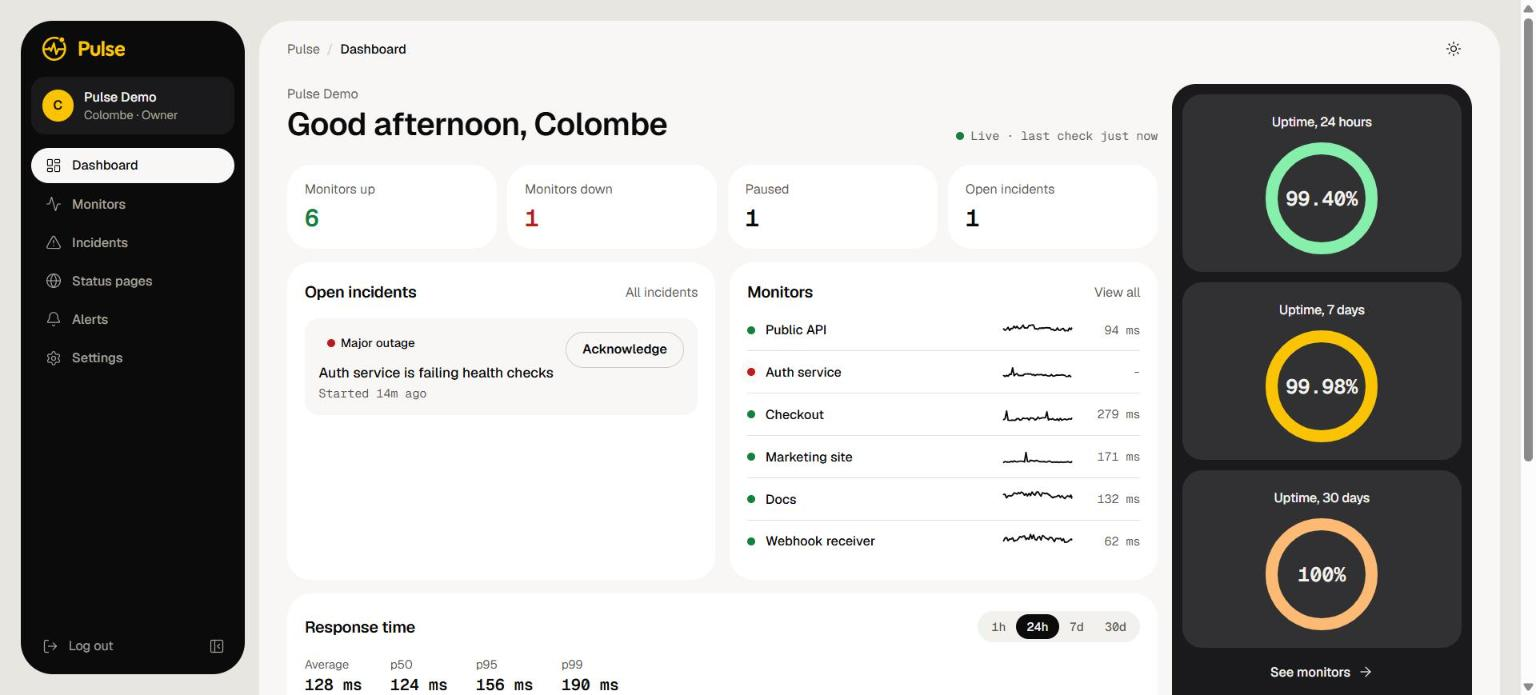
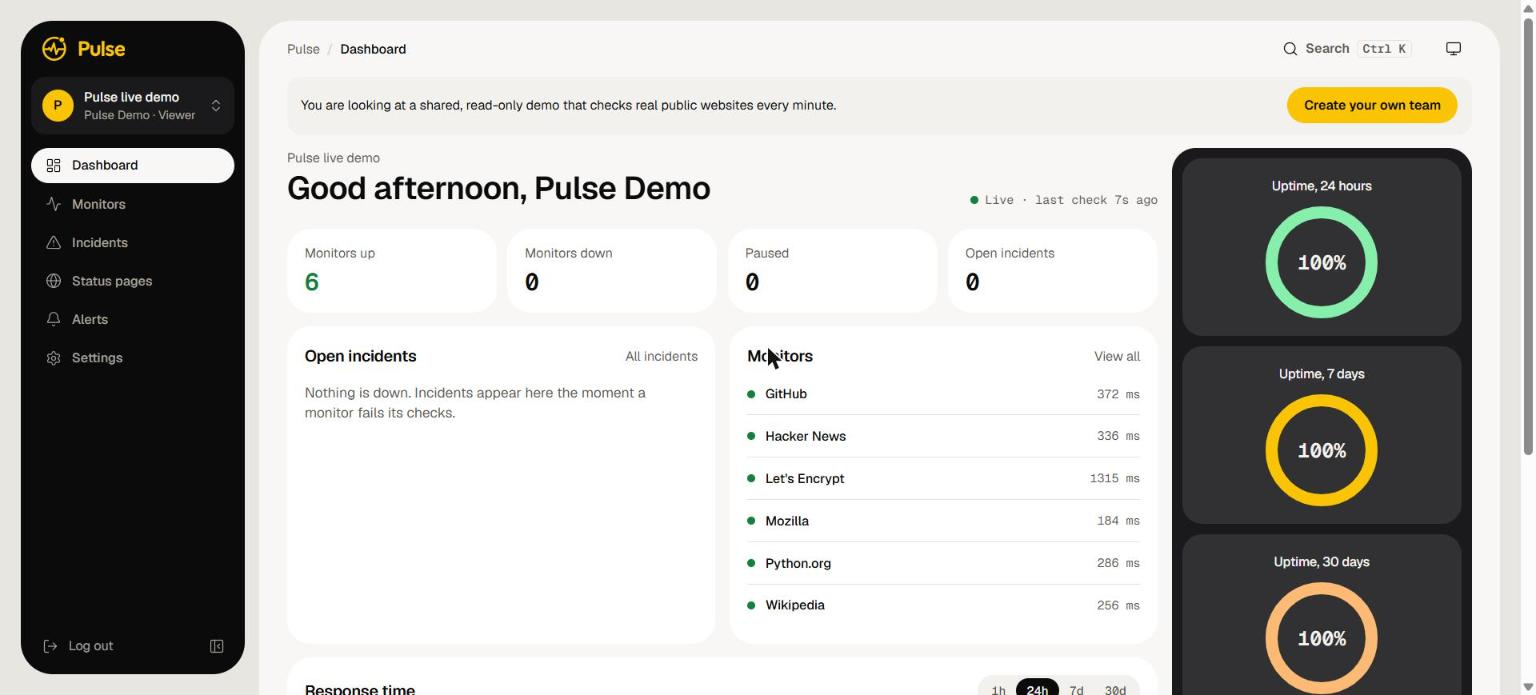
docs: add launch screenshots, architecture notes and the v1.0.0 changelog

diff --git a/README.md b/README.md
@@ -4,74 +4,33 @@
 
 # Pulse
 
-Pulse checks websites and APIs on a schedule, detects outages, alerts the team, and publishes a live public
-status page. Monitoring and a status page in one place, built on .NET, React and PostgreSQL.
+[![CI](https://github.com/colombefioren/PULSE/actions/workflows/ci.yml/badge.svg)](https://github.com/colombefioren/PULSE/actions/workflows/ci.yml)
 
-> Status: **v0.5.0, status pages.** Accounts, teams, monitoring, incidents, alerts and public status pages are
-> real: when a monitor goes down Pulse opens an incident, tells your team by email, Slack, Discord or a signed
-> webhook, and shows it on a page your customers can read and subscribe to. "Try the demo" shows the whole
-> product on seeded data.
+Pulse checks websites and APIs on a schedule, notices when one stops answering, tells your team by email, Slack,
+Discord or webhook, and publishes a live public status page your customers can read and subscribe to. Monitoring
+and a status page in one place, on .NET 10, React and PostgreSQL, built so the interesting parts (partitioned
+storage, a database-backed job queue, an outbox, live updates without a message broker) are small enough to read.
 
-## Accounts
+**Status: v1.0.0.** Try it with one click on the landing page: "Try the demo" opens a read-only team that watches
+real public websites, or a built-in sample workspace when the server has no demo.
 
-Create an account at `/signup`. In the local stack the confirmation email arrives in Mailpit
-(http://localhost:8025). Every account belongs to teams with one of three roles:
+![The dashboard](docs/screenshots/dashboard.jpg)
 
-| Role | Can |
+## An outage, live
+
+A monitor fails, an incident opens by itself, and the public status page changes while a visitor is looking at it.
+
+![An outage appearing on the dashboard and the status page](docs/screenshots/outage-live.gif)
+
+| Monitor | Public status page |
 | --- | --- |
-| Owner | Everything, including delete the team and grant or revoke Owner |
-| Admin | Manage members and invitations (not Owners) |
-| Viewer | Look, nothing else |
+| ![A monitor with response times and recent checks](docs/screenshots/monitor.jpg) | ![A public status page](docs/screenshots/status-page.jpg) |
 
-People join a team through an emailed invitation that works for 7 days. A person who is not a member of a team
-gets a 404 for anything inside it, so team ids cannot be probed.
+| Command palette (Ctrl+K) | Dark theme at 360 px |
+| --- | --- |
+| ![The command palette searching monitors](docs/screenshots/command-palette.jpg) | ![The dashboard on a phone in dark mode](docs/screenshots/mobile-dark.jpg) |
 
-## Monitors
-
-Owners and Admins add monitors from **Monitors > Add monitor** (or press `C`). A monitor checks one `http` or
-`https` address every 30 seconds to 30 minutes and can require specific status codes, a keyword in the response
-and request headers. It goes Down after a few failures in a row and Up again after a few passes, so one dropped
-packet does not page anyone. Each monitor shows uptime for 24 hours, 7 and 30 days, average and p95/p99 response
-times, a response chart and the recent checks with the reason for every failure. Viewers can look but not change.
-
-The checks run in `Pulse.Worker`, so the stack needs the worker as well as the API. Addresses that point at
-private or internal networks (localhost, 10.x, 192.168.x, cloud metadata and so on) are refused when saving and
-again when connecting, so Pulse cannot be used to probe your network. Monitoring a service on your own machine
-therefore needs a public address, for example through a tunnel.
-
-## Incidents and alerts
-
-An incident opens by itself when a monitor goes Down and resolves when it comes back Up. Its timeline records
-what the monitor saw, who acknowledged it and any notes your team adds. For things monitors cannot see, Owners
-and Admins can **declare an incident** by hand and post status updates (Investigating, Identified, Monitoring,
-Resolved) on it. Open incidents show on the dashboard next to live counts and uptime for 24 hours, 7 and 30 days.
-
-**Alert channels** (Alerts page) say where a message goes. Add email addresses, a Slack or Discord webhook, or a
-generic webhook, then choose which channels each monitor uses in its form. A generic webhook receives a JSON
-`POST` signed with a secret that is shown once: compare `X-Pulse-Signature` with `sha256=` plus the hex HMAC-SHA256
-of the raw body. **Send test alert** checks a channel end to end, and each channel keeps its delivery history.
-Failed deliveries are retried after 1, 5, 15 and 60 minutes before they are marked failed.
-
-## Status pages
-
-Owners and Admins build up to five pages under **Status pages**. A page has a title, an address
-(`/status/your-address`), an accent colour, a footer, an optional logo and a list of **components**: lines such as
-"Website" or "API", each fed by one or more monitors and optionally grouped. A component is down when all its
-monitors are down, degraded when only some are, and in maintenance when every monitor behind it is paused.
-
-Visitors need no account. The public page shows the current status, 90 days of uptime per component, active
-incidents with their updates and the last 30 days of past incidents, and it refreshes itself over a socket when
-something changes. It is cached for 30 seconds and its endpoints are rate limited per address.
-
-What visitors see is deliberately plain. An incident opened by a monitor reads "Issue affecting Checkout": the
-monitor's name, address and error stay private, and so do internal notes and acknowledgements. Incidents you
-declare by hand can name the components they affect and go out exactly as you wrote them.
-
-Visitors can **subscribe by email**. They confirm from a link in the first email (nothing is sent before that),
-and every later email carries a one-click unsubscribe link and the `List-Unsubscribe` headers mail apps use.
-Subscribers hear when an incident on the page opens, gets a public update or resolves.
-
-## Run it locally
+## Run it in three commands
 
 ```bash
 git clone https://github.com/colombefioren/PULSE.git
@@ -79,19 +38,95 @@ cd PULSE
 docker compose up --build
 ```
 
+Open http://localhost:8080, create an account (the confirmation email arrives in Mailpit at
+http://localhost:8025), add a URL and watch it go Up within a minute.
+
 | Service | URL |
 | --- | --- |
 | Web | http://localhost:8080 |
 | API | http://localhost:5080 (health: `/health/live`, `/health/ready`) |
 | Mailpit | http://localhost:8025 |
 
-Every setting has a development default. Copy `.env.example` to `.env` to change ports or credentials.
+Every setting has a development default. Copy `.env.example` to `.env` to change ports or credentials, or to turn
+on the shared demo (`DEMO_ENABLED=true`).
 
-### Without Docker
+## What it does
 
-Requirements: .NET 10 SDK, Node 24, PostgreSQL 16 and an SMTP catcher such as Mailpit on port 1025. The
-Development settings expect the `pulse` / `pulse_dev_password` database from `.env.example` on `localhost:5432`
-and apply migrations on startup. Start only the dependencies with `docker compose up postgres mailpit`.
+**Monitors.** Check an `http` or `https` address every 30 seconds to 30 minutes, requiring status codes, a keyword
+in the body and request headers. A monitor goes Down after a few failures in a row and Up again after a few
+passes, so one dropped packet pages nobody. Each shows uptime for 24 hours, 7, 30 and 90 days, average, p95 and
+p99 response times, a chart, and the reason for every failed check.
+
+**Incidents and alerts.** An incident opens when a monitor goes Down and resolves when it recovers, with a
+timeline of what was seen, who acknowledged it and any notes. Declare your own for what monitors cannot see.
+Alert channels are email, Slack, Discord and a generic webhook signed with HMAC-SHA256; failed deliveries are
+retried after 1, 5, 15 and 60 minutes.
+
+**Status pages.** Up to five per team at `/status/your-address`, with components fed by monitors, 90 days of
+uptime bars, active incidents with public updates, and email subscribers (double opt-in, one-click unsubscribe).
+Visitors need no account. What they see is deliberately plain: an incident from a monitor reads "Issue affecting
+Checkout", never the monitor's name, address or error.
+
+**Badges.** Switch on a monitor's badge and paste the Markdown from its page: `/badge/{monitorId}.svg` shows the
+last 30 days as a small image. Off by default, cached, rate limited, and a switched-off monitor looks the same as
+one that does not exist.
+
+**Teams.** Owner, Admin and Viewer roles, invitations that work for 7 days, and a 404 for anything in a team you
+do not belong to, so ids cannot be probed.
+
+**Keyboard.** `Ctrl+K` (`Cmd+K` on a Mac) opens a command palette to jump to any monitor or page, create a monitor,
+switch team or change the theme. `C` adds a monitor; `G` then `M` or `I` opens monitors or incidents.
+
+## Architecture
+
+```mermaid
+flowchart LR
+    Browser["Browser<br/>React SPA"] -->|"HTTPS, cookie"| Web["nginx"]
+    Web -->|"/api, /badge"| API["Pulse.Api<br/>ASP.NET Core"]
+    Web -->|"/hubs WebSocket"| API
+    API --> PG[("PostgreSQL")]
+    Worker["Pulse.Worker<br/>checks, rollups,<br/>outbox, retention"] --> PG
+    Worker -->|"HTTP checks"| Sites["Monitored sites"]
+    Worker -->|"email, Slack,<br/>Discord, webhooks"| Targets["Alert targets"]
+    Worker -.->|"NOTIFY pulse_events"| PG
+    PG -.->|"LISTEN"| API
+    API -.->|"SignalR"| Browser
+```
+
+Two processes share one database. `Pulse.Api` serves the web app's API, the public status pages and the live
+connections. `Pulse.Worker` runs the checks, sends alerts, rolls results up and drops old data. They never call
+each other: anything one needs from the other goes through PostgreSQL. The code follows Clean Architecture
+(`Domain`, `Application`, `Infrastructure`, then the two hosts); see [docs/architecture.md](docs/architecture.md).
+
+## Design decisions
+
+The longer reasoning, with the alternatives that were rejected, is in [docs/decisions.md](docs/decisions.md).
+
+- **Partitioned check results, dropped not deleted.** `check_results` grows forever, so it is partitioned by month.
+  Retention is `DROP TABLE` on a whole month once all of it is older than 30 days, after the worker has summed it
+  into hourly (kept a year) and daily (kept forever) rollups. No `DELETE` ever touches millions of rows, and the
+  space comes back at once.
+- **Scheduling with `FOR UPDATE SKIP LOCKED`.** Each monitor row carries its next due time. A worker claims a batch
+  of due rows in one transaction, moves their due time forward and runs the checks outside it, so any number of
+  workers can share the load without a lock manager, and a crashed one just lets rows come due again.
+- **A transactional outbox for alerts and mail.** When a monitor changes state, the incident and the "send this"
+  message are written in the same transaction. A dispatcher leases messages, sends them with a few retries and marks
+  them done, so an alert is neither lost with a crash nor sent for a change that was rolled back. Delivery is at
+  least once.
+- **SignalR through `LISTEN/NOTIFY`, no broker.** Whoever changes something publishes a `pg_notify`; every API
+  instance listens and pushes to its own connected browsers. The public status page's socket carries nothing but
+  "changed", and the browser then fetches the cached page like any visitor.
+- **Checks cannot be pointed inward.** The address is checked when a monitor is saved and again on every
+  connection, redirects included, against the address actually used, so DNS tricks cannot reach the private
+  network or a cloud metadata service.
+- **Cookie sessions with antiforgery tokens**, not tokens in local storage: the session is `HttpOnly`, and every
+  request that changes something carries a header other sites cannot set.
+
+## Develop
+
+Without Docker you need the .NET 10 SDK, Node 24, PostgreSQL 16 and an SMTP catcher such as Mailpit on port 1025.
+Start only the dependencies with `docker compose up postgres mailpit`; the Development settings apply migrations on
+startup.
 
 ```bash
 dotnet run --project src/Pulse.Api        # http://localhost:5080, OpenAPI UI at /scalar/v1
@@ -99,7 +134,7 @@ dotnet run --project src/Pulse.Worker
 cd web && npm ci && npm run dev           # http://localhost:5173, proxies /api to the API
 ```
 
-## Tests
+### Tests
 
 ```bash
 dotnet test Pulse.slnx                    # unit and integration; integration tests start PostgreSQL with Testcontainers
@@ -113,8 +148,26 @@ drop a scratch database of their own:
 PULSE_TEST_POSTGRES="Host=127.0.0.1;Port=5432;Username=postgres;Password=..." dotnet test Pulse.slnx
 ```
 
+End-to-end tests drive a real browser against the whole stack, including a website whose health they switch to
+cause an outage:
+
+```bash
+docker compose -f docker-compose.yml -f docker-compose.e2e.yml up -d --build
+cd e2e && npm ci && npx playwright install chromium && npx playwright test
+```
+
 Schema changes need a migration: `dotnet ef migrations add <Name> --project src/Pulse.Infrastructure --startup-project src/Pulse.Api`
 (the tool is pinned in `dotnet-tools.json`; run `dotnet tool restore` once).
+
+### Settings worth knowing
+
+| Setting | Default | Meaning |
+| --- | --- | --- |
+| `Demo__Enabled` | `false` | "Try the demo" signs in to a shared read-only team that watches real public sites |
+| `Checks__AllowPrivateTargets` | `false` | Lets checks reach private addresses. Only the end-to-end stack sets it |
+| `StatusPage__CacheSeconds` | `30` | How long a public page is cached; `0` turns the cache off |
+| `Badge__CacheSeconds` | `300` | How long a badge is cached |
+| `App__PublicUrl` | `http://localhost:8080` | Where links in emails point |
 
 ## Stack
 
@@ -122,7 +175,7 @@ Schema changes need a migration: `dotnet ef migrations add <Name> --project src/
 | --- | --- |
 | Backend | .NET 10, ASP.NET Core, Clean Architecture |
 | Data | PostgreSQL 16, EF Core with Npgsql |
-| Background work | `BackgroundService` with `System.Threading.Channels` |
+| Background work | `BackgroundService`, `FOR UPDATE SKIP LOCKED`, a transactional outbox |
 | Real time | SignalR, worker events through `LISTEN/NOTIFY` |
 | Frontend | React, TypeScript (strict), Vite, Tailwind CSS, Radix UI, TanStack Query |
 | Tests | xUnit, FluentAssertions, Testcontainers, Vitest, Testing Library, Playwright |
@@ -137,7 +190,7 @@ Schema changes need a migration: `dotnet ef migrations add <Name> --project src/
 | v0.3.0 | M2 Monitors and the check engine | released |
 | v0.4.0 | M3 Incidents and alerts | released |
 | v0.5.0 | M4 Status pages | released |
-| v1.0.0 | M5 Polish and launch | planned |
+| v1.0.0 | M5 Polish and launch | released |
 
 ## Branches
 
@@ -149,3 +202,4 @@ on `preprod`; larger work goes through a short-lived `feat/*` branch and a pull 
 
 - [Architecture](docs/architecture.md)
 - [Decisions](docs/decisions.md)
+- [Changelog](CHANGELOG.md)

diff --git a/docs/decisions.md b/docs/decisions.md
@@ -369,3 +369,45 @@ page up to 30 components.
 ### Accent colour
 The accent paints a stripe and the subscribe button, never body text. The button text is black or white, whichever
 contrasts better, and the editor says so when neither reaches 4.5:1 for the chosen colour.
+
+## M5: retention, badges, demo and launch
+
+### Drop partitions, never delete rows
+`check_results` is the one table that grows without bound, so it is partitioned by month and retention is
+`DROP TABLE` on a whole partition once its last day is older than 30 days. A `DELETE` of that many rows would
+bloat the table, take locks and need vacuuming; dropping a partition is instant and returns the space. Before a
+month is dropped the worker runs the daily and hourly rollups over it, so nothing the product shows depends on the
+raw rows afterwards. Rollups are idempotent upserts, so running them twice, or after a restart, is harmless. The
+partition names come from `pg_inherits` and must match `check_results_YYYY_MM`, so nothing a user types reaches
+the statement. Hourly rollups (a small table) are kept 365 days with a plain delete; daily rollups are kept forever.
+
+### 90-day uptime reads two sources
+Days before yesterday come from the daily totals; yesterday and today come from the raw checks. The rollup job
+refreshes yesterday and today every ten minutes, but reading them raw means the figure is correct even if the job
+has not run, and a freshly dropped partition can never leave a gap.
+
+### The badge says nothing it was not asked to
+A badge is public, so it is opt-in per monitor and shows one number. "Switched off" and "no such monitor" return the
+same 404 image, so ids cannot be probed. The result is cached for five minutes in memory and by browsers and
+proxies, and shares the public read rate limit. Colours are chosen so white text keeps at least 4.5:1 contrast.
+
+### A real demo that cannot hurt anyone
+"Try the demo" signs in to a shared account on a real team that watches six well-known public websites, so the
+visitor sees live data instead of a script. The account is a Viewer, its password is random and thrown away, and
+the only way in is `POST /api/demo/session`, which is rate limited. It cannot create teams, which would otherwise
+let any visitor spend the demo's storage. If the server has no demo (`Demo__Enabled` is false) the endpoint answers
+404 and the web app falls back to the built-in sample workspace; someone already signed in is never switched to it.
+
+### Why the command palette is hand-built
+It needs a list, a filter and keyboard handling. A library for that would add more weight than the couple of hundred lines it
+saves, and the initial bundle has a 250 KB budget. Matching is "every word appears somewhere", names that start with
+the first word come first, and the whole thing is a Radix dialog so focus, Escape and screen readers already work.
+
+### End-to-end tests need one exception to the network rule
+Checks refuse private addresses, which is exactly where a test site in a container lives. `Checks__AllowPrivateTargets`
+lifts the rule in the API and the worker, is false by default, and is set only in `docker-compose.e2e.yml`.
+
+### Lessons from running the real stack
+The first run of the worker in the Development environment failed: container validation found a singleton that held
+a scoped service, and account services that could not be built without the authentication services. Neither showed
+in the unit or integration tests, because those never build the worker's container. `CompositionTests` does now.

diff --git a/docs/architecture.md b/docs/architecture.md
@@ -59,7 +59,7 @@ Infrastructure.
    the same save. The dispatcher sends each as an email built from the database at send time, so someone who
    unsubscribed in between gets nothing.
 
-## What exists today (v0.5.0)
+## What exists today (v1.0.0)
 
 - The solution structure and project references above.
 - API: structured JSON logging, correlation ids (`X-Correlation-Id`), `/health/live`, `/health/ready` (checks
@@ -86,10 +86,24 @@ Infrastructure.
 - Status pages: pages, components and a logo stored in the database (`Pulse.Application/StatusPages`), the
   public page assembled by `PublicStatusService`, `StatusCache`, the anonymous `StatusHub`, public endpoints with
   per-address rate limits, double opt-in subscribers and the subscriber mailer.
-- Daily rollups (`monitor_daily_stats`) written by the worker.
+- Rollups: `monitor_daily_stats` and `monitor_hourly_stats` written by the worker from the raw results.
+- Retention (`CheckRetention` in the worker): once a month's partition is entirely older than 30 days and its
+  rollups are written, the partition is dropped with `DROP TABLE`. Hourly rollups are kept a year, daily ones
+  forever, and the 90-day uptime on a status page or monitor is computed from the daily rollups plus the raw
+  results of yesterday and today.
+- Badges: `/badge/{monitorId}.svg` (`BadgeService`, `BadgeSvg`), off per monitor until switched on, cached in
+  memory, and the same 404 for "off" and "no such monitor". An unavailable badge is cached for ten seconds only.
+- Demo: `POST /api/demo/session` signs a visitor in to a shared Viewer account of a team whose monitors check
+  real public sites (`DemoService`, behind `Demo:Enabled`). Without it the web app falls back to its built-in
+  sample workspace, which needs no server.
+- Command palette in the web app (`Ctrl+K`), built on the Radix dialog with combobox and listbox semantics.
+- End-to-end tests (`e2e/`, Playwright) run against the whole Compose stack plus a small target site whose health
+  they switch (`docker-compose.e2e.yml`, `Checks:AllowPrivateTargets`), as a job in CI.
 - Docker Compose and the CI/CD workflows.
 
-Steps 1 to 5 of the flow above are real. The rollups (6) arrive in M5.
+All of the flow above is real. The worker reads its collaborators per scope: the outbox dispatcher is a singleton
+that opens a scope for each message, because the alert transport depends on scoped services. `CompositionTests`
+builds a worker-shaped container with `ValidateOnBuild` so a lifetime mistake fails a test instead of the worker.
 
 ## Frontend
 

diff --git a/CHANGELOG.md b/CHANGELOG.md
@@ -3,6 +3,34 @@
 All notable changes to Pulse are recorded here. The release workflow reads the version from the first
 `## [x.y.z]` heading, so every promotion from `preprod` to `prod` adds an entry at the top.
 
+## [1.0.0] - 2026-11-08
+
+Polish and launch (milestone M5).
+
+### Added
+- Retention that never runs a `DELETE` over check results: the worker sums each month into hourly and daily
+  rollups and then drops the whole monthly partition once all of it is older than 30 days. Hourly rollups are kept
+  for a year and daily rollups forever.
+- 90-day uptime on every monitor, read from the daily totals plus the raw checks of the last two days, so it is right
+  whether or not the rollup job has run since.
+- A public uptime badge, `/badge/{monitorId}.svg`: a shields-style image of the last 30 days, cached for five
+  minutes, rate limited and off until a team switches it on for that monitor. A switched-off monitor and an unknown id
+  get the same response. The monitor page shows the badge and the Markdown to paste.
+- A shared, read-only demo account. With `Demo__Enabled=true`, "Try the demo" signs a visitor in to a real team that
+  watches well-known public websites; without it the button opens the built-in sample workspace as before. The demo
+  account is a Viewer, cannot sign in with a password and cannot create teams.
+- A command palette on Ctrl+K (Cmd+K on a Mac) and in the top bar: jump to any monitor or page, create a monitor,
+  switch team and change the theme.
+- End-to-end tests with Playwright against the real stack in Docker: sign up and add a monitor, an outage that opens an
+  incident the status page shows, recovery, and the badge. They run in CI.
+- `Checks__AllowPrivateTargets`, off by default, for the end-to-end stack whose monitored site is a container.
+- README with a pitch, screenshots, an architecture diagram and the design decisions.
+
+### Fixed
+- The worker could not start in the Development environment: the container check found that it could not build the
+  account services without the authentication services, and that the alert dispatcher held a scoped transport for its
+  whole life. A test now builds the worker's container with every registration checked.
+
 ## [0.5.0] - 2026-11-08
 
 Status pages (milestone M4).
